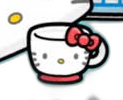
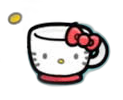
Use clean HK items group as single decoration, proper bg removal
Flood-fill removed cyan background from original scene screenshot.
Card top strip: backpack + full items group. Bottom strip: fries only.

Claude-Session: https://claude.ai/code/session_012X3JZiVqhXTuwU4ss1CF3f

diff --git a/characters.html b/characters.html
@@ -33,9 +33,8 @@
           <article class="character-card" id="hello-kitty">
             <!-- top deco strip -->
             <div class="hk-top-strip">
-              <img src="images/deco-backpack.png"  alt="" class="hk-strip-item" style="height:70px;transform:rotate(10deg)"/>
-              <img src="images/deco-sketchpad.png" alt="" class="hk-strip-item" style="height:80px;transform:rotate(-5deg)"/>
-              <img src="images/deco-handbag.png"   alt="" class="hk-strip-item" style="height:75px;transform:rotate(5deg)"/>
+              <img src="images/deco-backpack.png"   alt="" class="hk-strip-item" style="height:75px;transform:rotate(10deg)"/>
+              <img src="images/hk-items-nobg.png"   alt="" class="hk-strip-item" style="height:110px;transform:rotate(-3deg)"/>
             </div>
             <div class="hk-body">
               <div class="hk-left">
@@ -66,9 +65,7 @@
             </div>
             <!-- bottom deco strip -->
             <div class="hk-bottom-strip">
-              <img src="images/deco-fries.svg"  alt="" class="hk-strip-item" style="height:110px;transform:rotate(-8deg)"/>
-              <img src="images/deco-cup.png"    alt="" class="hk-strip-item" style="height:75px;transform:rotate(6deg)"/>
-              <img src="images/deco-makeup.png" alt="" class="hk-strip-item" style="height:80px;transform:rotate(-4deg)"/>
+              <img src="images/deco-fries.svg" alt="" class="hk-strip-item" style="height:110px;transform:rotate(-8deg)"/>
             </div>
           </article>
 
